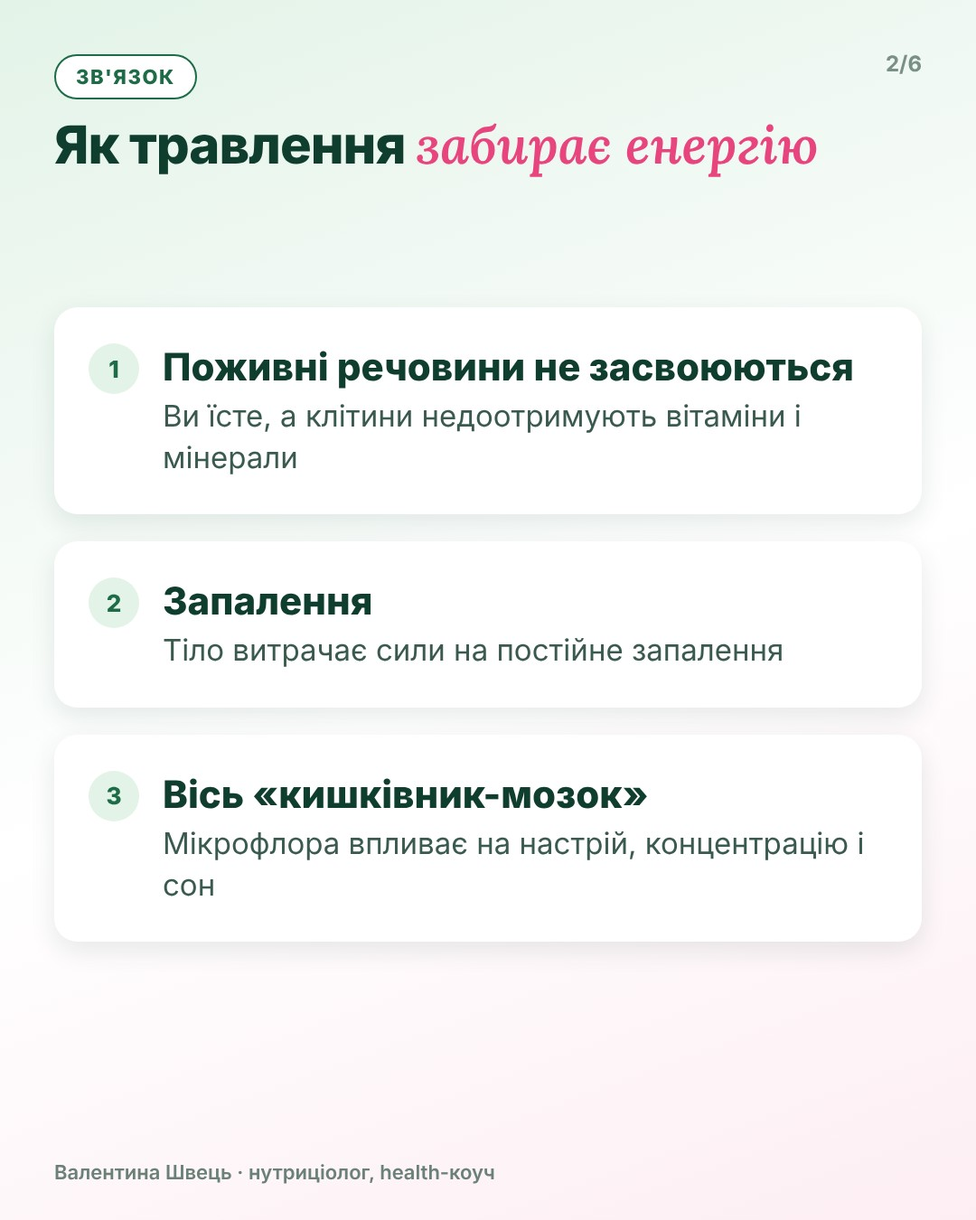
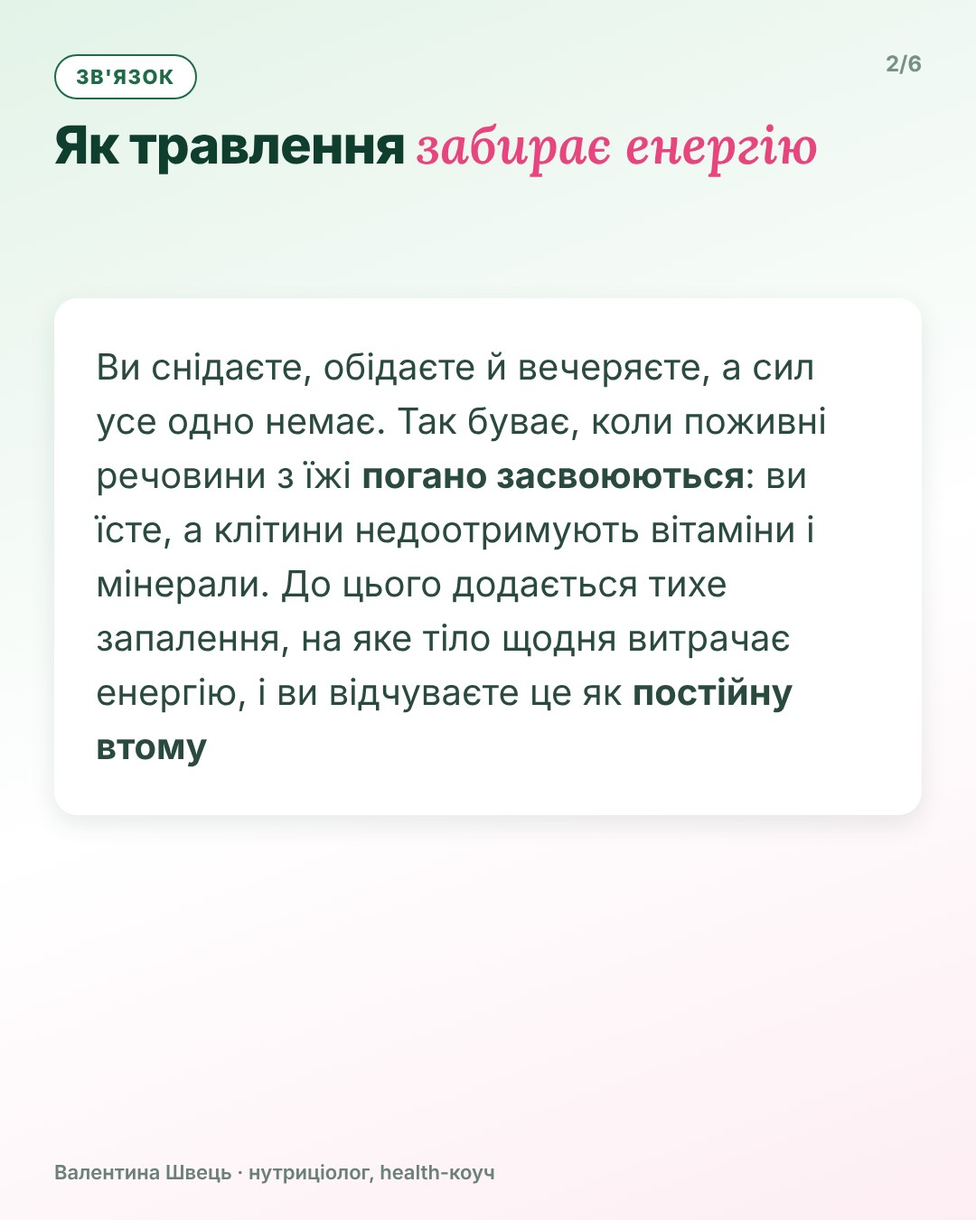
Валентина: k11 з повними слайдами і описом, нова примітка про консультацію, пояснення про налаштування реклами
Claude-Session: https://claude.ai/code/session_01P95tyL1PPecuZWfpcGvJVw

Changed region(s): [[0.0917, 0.28, 0.8861, 0.7467]]

diff --git a/instaposts.py b/instaposts.py
@@ -47,71 +47,74 @@ POSTS = [
      "Сироватки за пів зарплати, а шкіра та сама? Іноді причина висипань глибше: у кишківнику, жовчі та мікрофлорі 😉\n\nМожливо, ви зараз думаєте: «Я вже все перепробувала, і нічого не допомагає». Я розумію цю втому. Креми працюють з поверхнею, а коли налагоджується травлення, шкіра дуже часто відповідає першою.\n\n"
      "У каруселі чому так буває, з чого почати і відгук дівчини, в якої шкіра очистилась, щойно налагодили кишківник.\n\n"
      "Як харчування і мікрофлора впливають на шкіру, розбираємо на інтенсиві «Здоровий кишківник», старт 24 листопада.\n\n"
-     "Напишіть у коментарях КИШКІВНИК, і я надішлю вам усе про інтенсив ❤\n\nІнформація має ознайомчий характер і не замінює консультації спеціаліста.\n\nкишківник травлення мікробіом здоров'я харчування нутриціолог самопочуття"),
+     "Напишіть у коментарях КИШКІВНИК, і я надішлю вам усе про інтенсив ❤\n\nІнформація має ознайомчий характер і не замінює особистої консультації. Ваша ситуація може відрізнятися, тому на консультації ми розбираємо саме вас.\n\nкишківник травлення мікробіом здоров'я харчування нутриціолог самопочуття"),
     ("k7", "2026-11-19 10:15", "«Зранку живіт плаский, а ввечері як на 5 місяці» (слово ЖИВІТ)",
      "Зранку живіт плаский, а до вечора як на 5 місяці? Знайома картина 😉\n\nМожливо, ви думаєте: «Це в мене просто така фігура». Ваша фігура це живіт зранку. А те, що він росте до вечора, є сигналом травлення, і з ним можна працювати.\n\n"
      "Розбираю, чому здуття накопичується за день, як за тиждень знайти свій «продукт-провокатор» і що можна зробити вже сьогодні.\n\n"
-     "Напишіть у коментарях ЖИВІТ, і я надішлю вам тест з 10 питань ❤\n\nІнформація має ознайомчий характер і не замінює консультації спеціаліста.\n\nкишківник травлення мікробіом здоров'я харчування нутриціолог самопочуття"),
+     "Напишіть у коментарях ЖИВІТ, і я надішлю вам тест з 10 питань ❤\n\nІнформація має ознайомчий характер і не замінює особистої консультації. Ваша ситуація може відрізнятися, тому на консультації ми розбираємо саме вас.\n\nкишківник травлення мікробіом здоров'я харчування нутриціолог самопочуття"),
     ("k8", "2026-11-20 09:00", "«Знову булка ввечері? Можливо, апетитом керуєте не ви» (слово КИШКІВНИК → консультація)",
      "Ви сварите себе за слабку силу волі, а булка знову перемогла? Іноді тягу до солодкого підсилює мікрофлора, зокрема грибок Candida 😉\n\nЯкщо ви думаєте «у мене просто немає сили волі», будьте до себе м'якшою. Коли мікрофлора повертається в баланс, тяга слабшає сама, без постійних заборон.\n\n"
      "У каруселі як це працює і як м'яко зменшити тягу без заборон.\n\n"
-     "Як відновити мікрофлору саме у вас, розберемо особисто на консультації. До кінця листопада вона зі знижкою 50% ‼\n\nНапишіть у коментарях КИШКІВНИК, і я надішлю, як записатися ❤\n\nІнформація має ознайомчий характер і не замінює консультації спеціаліста.\n\nкишківник травлення мікробіом здоров'я харчування нутриціолог самопочуття"),
+     "Як відновити мікрофлору саме у вас, розберемо особисто на консультації. До кінця листопада вона зі знижкою 50% ‼\n\nНапишіть у коментарях КИШКІВНИК, і я надішлю, як записатися ❤\n\nІнформація має ознайомчий характер і не замінює особистої консультації. Ваша ситуація може відрізнятися, тому на консультації ми розбираємо саме вас.\n\nкишківник травлення мікробіом здоров'я харчування нутриціолог самопочуття"),
     ("k9", "2026-11-21 09:00", "Чек-лист «Коли ваш кишківник кричить про допомогу» (слово ЖИВІТ)",
      "10 неочевидних ознак, що кишківнику потрібна допомога. Збережіть і порахуйте, скільки з них про вас 😉\n\n«Та це в усіх так, просто вік» я чую дуже часто. Але втома, здуття чи висипання є підказками, і багато з них можна змінити, якщо почати з кишківника.\n\n"
-     "Набрали 3 і більше? Напишіть у коментарях ЖИВІТ, і я надішлю діагностику з 10 питань ❤\n\nІнформація має ознайомчий характер і не замінює консультації спеціаліста.\n\nкишківник травлення мікробіом здоров'я харчування нутриціолог самопочуття"),
+     "Набрали 3 і більше? Напишіть у коментарях ЖИВІТ, і я надішлю діагностику з 10 питань ❤\n\nІнформація має ознайомчий характер і не замінює особистої консультації. Ваша ситуація може відрізнятися, тому на консультації ми розбираємо саме вас.\n\nкишківник травлення мікробіом здоров'я харчування нутриціолог самопочуття"),
     ("k10", "2026-11-23 09:00", "«Пробіотики: чому це часто гроші на вітер» (слово КИШКІВНИК → консультація)",
      "Купуєте баночку пробіотиків за баночкою, а результату немає? Корисні бактерії просто не приживаються, якщо їм нема чим живитися 😉\n\n«Я вже пила пробіотики, і мені не допомогло». Саме для вас ця карусель: без ґрунту і їжі для бактерій навіть хороший пробіотик просто проходить транзитом.\n\n"
      "У каруселі правильний порядок: спершу ґрунт, потім насіння.\n\n"
      "Як обрати пре- і пробіотики саме для себе, підберемо на особистій консультації. До кінця листопада вона зі знижкою 50% ‼\n\n"
-     "Напишіть у коментарях КИШКІВНИК, і я надішлю, як записатися ❤\n\nІнформація має ознайомчий характер і не замінює консультації спеціаліста.\n\nкишківник травлення мікробіом здоров'я харчування нутриціолог самопочуття"),
+     "Напишіть у коментарях КИШКІВНИК, і я надішлю, як записатися ❤\n\nІнформація має ознайомчий характер і не замінює особистої консультації. Ваша ситуація може відрізнятися, тому на консультації ми розбираємо саме вас.\n\nкишківник травлення мікробіом здоров'я харчування нутриціолог самопочуття"),
     ("k11", "2026-11-24 09:00", "«Прокидаєтесь уже втомленою?» (слово ЖИВІТ)",
-     "Спите 8 годин, а прокидаєтесь уже втомленою, і в голові туман? Іноді енергію забирає травлення 😉\n\nМожливо, ви думаєте: «Я просто мало сплю, у мене робота і діти». Сон дуже важливий. Але якщо ви спите 7-8 годин і все одно прокидаєтесь втомленою, варто подивитись на травлення.\n\n"
-     "У каруселі зв'язок кишківника і втоми та перші кроки, щоб повернути сили.\n\n"
-     "Напишіть у коментарях ЖИВІТ, і я надішлю вам тест з 10 питань ❤\n\nІнформація має ознайомчий характер і не замінює консультації спеціаліста.\n\nкишківник травлення мікробіом здоров'я харчування нутриціолог самопочуття"),
+     "Спите 8 годин, а прокидаєтесь уже втомленою, і в голові туман? Мені про це пишуть дуже часто 😉\n\n"
+     "Багато хто думає: «Я просто мало сплю, у мене робота і діти». Сон справді важливий. Але якщо ви спите 7-8 годин, а сил усе одно немає, варто подивитись на травлення.\n\n"
+     "Коли кишківнику погано, поживні речовини з їжі засвоюються гірше. Ви їсте, а клітини недоотримують вітаміни і мінерали. До цього додається тихе запалення, на яке тіло щодня витрачає енергію. І все це ми відчуваємо як втому, сонливість після обіду і туман у голові.\n\n"
+     "У каруселі я зібрала сигнали, що справа саме в кишківнику, і три перші кроки, з яких можна почати вже цього тижня: сніданок з білком, вода протягом дня і сон до 23:00. Збережіть, щоб не загубити, і спробуйте хоча б тиждень.\n\n"
+     "А щоб зрозуміти, що забирає сили саме у вас, пройдіть мою діагностику. Це 10 простих питань, і в кінці ви побачите, на що звернути увагу в першу чергу.\n\n"
+     "Напишіть у коментарях ЖИВІТ, і я надішлю вам діагностику ❤\n\nІнформація має ознайомчий характер і не замінює особистої консультації. Ваша ситуація може відрізнятися, тому на консультації ми розбираємо саме вас.\n\nкишківник травлення мікробіом здоров'я харчування нутриціолог самопочуття"),
     ("k12", "2026-11-26 09:00", "«Їсте, як пташка, а вага не йде?» (слово ЖИВІТ)",
      "Їсте, як пташка, а вага стоїть на місці? Іноді схуднення блокує запалення в кишківнику і набряки 😉\n\nЯкщо зараз з'явилась думка «мені просто треба їсти ще менше», зупиніться. Голод часто ще сильніше гальмує обмін, а вазі допомагає баланс на тарілці.\n\n"
      "У каруселі чому так буває і тарілка балансу замість голодування.\n\n"
-     "Напишіть у коментарях ЖИВІТ, і я надішлю діагностику ❤\n\nІнформація має ознайомчий характер і не замінює консультації спеціаліста.\n\nкишківник травлення мікробіом здоров'я харчування нутриціолог самопочуття"),
+     "Напишіть у коментарях ЖИВІТ, і я надішлю діагностику ❤\n\nІнформація має ознайомчий характер і не замінює особистої консультації. Ваша ситуація може відрізнятися, тому на консультації ми розбираємо саме вас.\n\nкишківник травлення мікробіом здоров'я харчування нутриціолог самопочуття"),
     ("k13", "2026-12-03 09:00", "«Чистите зуби двічі на день, а запах лишається?» (слово ЖИВІТ)",
      "Делікатна тема, але дуже часта: неприємний запах з рота і наліт на язику можуть підказувати про роботу ШКТ ще до болю в животі 😉\n\nМожливо, ви думаєте: «Мені просто треба кращу пасту». Паста прибирає запах на годину-дві. Якщо він повертається щодня, причина часто глибше.\n\n"
      "Зазирніть зранку в дзеркало і звірте з карусельлю.\n\n"
-     "Напишіть у коментарях ЖИВІТ, і я надішлю тест ❤\n\nІнформація має ознайомчий характер і не замінює консультації спеціаліста.\n\nкишківник травлення мікробіом здоров'я харчування нутриціолог самопочуття"),
+     "Напишіть у коментарях ЖИВІТ, і я надішлю тест ❤\n\nІнформація має ознайомчий характер і не замінює особистої консультації. Ваша ситуація може відрізнятися, тому на консультації ми розбираємо саме вас.\n\nкишківник травлення мікробіом здоров'я харчування нутриціолог самопочуття"),
     ("k14", "2026-12-01 09:00", "«5 звичок, які тихо руйнують ваш мікробіом» (слово ЖИВІТ)",
      "Одноманітна їжа, стрес, мало сну, мало руху і ліки без призначення. Збережіть і чесно позначте, скільки з цих звичок про вас 😉\n\n«У мене немає часу на правильне харчування»? Міняти все одразу не треба. Оберіть одну звичку з каруселі і почніть з неї цього тижня.\n\n"
-     "Напишіть у коментарях ЖИВІТ, і я надішлю діагностику з 10 питань ❤\n\nІнформація має ознайомчий характер і не замінює консультації спеціаліста.\n\nкишківник травлення мікробіом здоров'я харчування нутриціолог самопочуття"),
+     "Напишіть у коментарях ЖИВІТ, і я надішлю діагностику з 10 питань ❤\n\nІнформація має ознайомчий характер і не замінює особистої консультації. Ваша ситуація може відрізнятися, тому на консультації ми розбираємо саме вас.\n\nкишківник травлення мікробіом здоров'я харчування нутриціолог самопочуття"),
     ("k15", "2026-12-05 09:00", "«Пили антибіотики роки тому? Мікрофлора досі пам'ятає» (слово ЖИВІТ)",
      "Антибіотики не розбирають, хто корисний. Мікрофлора після них може відновлюватися довго, а без підтримки деякі бактерії не повертаються 😉\n\nМожливо, ви думаєте: «Це було давно, вже все відновилось». Мікрофлора після антибіотиків може відновлюватися дуже довго, а деякі бактерії без підтримки не повертаються зовсім.\n\n"
      "У каруселі сигнали, що мікрофлора ще не відновилась, і як її підтримати.\n\n"
-     "Напишіть у коментарях ЖИВІТ ❤\n\nІнформація має ознайомчий характер і не замінює консультації спеціаліста.\n\nкишківник травлення мікробіом здоров'я харчування нутриціолог самопочуття"),
+     "Напишіть у коментарях ЖИВІТ ❤\n\nІнформація має ознайомчий характер і не замінює особистої консультації. Ваша ситуація може відрізнятися, тому на консультації ми розбираємо саме вас.\n\nкишківник травлення мікробіом здоров'я харчування нутриціолог самопочуття"),
     ("k16", "2026-11-29 09:00", "«Що ваш стілець говорить про здоров'я» (слово ЖИВІТ)",
      "Тема-табу, але дуже важлива. Брістольська шкала простими словами: від «твердо» до «занадто м'яко». Збережіть, щоб перевірити себе 😉\n\nЯкщо вам соромно про це говорити, ви не одна. Саме тому всі мовчать, хоча це одна з найпростіших підказок, яку тіло дає вам щодня.\n\n"
-     "Не тип 3-4? Напишіть у коментарях ЖИВІТ, і я надішлю діагностику ❤\n\nІнформація має ознайомчий характер і не замінює консультації спеціаліста.\n\nкишківник травлення мікробіом здоров'я харчування нутриціолог самопочуття"),
+     "Не тип 3-4? Напишіть у коментарях ЖИВІТ, і я надішлю діагностику ❤\n\nІнформація має ознайомчий характер і не замінює особистої консультації. Ваша ситуація може відрізнятися, тому на консультації ми розбираємо саме вас.\n\nкишківник травлення мікробіом здоров'я харчування нутриціолог самопочуття"),
     # 19.11: мікс до 1.12 (Тетяна «збирай»): консультація −50%, рецепт, гумор, історія клієнтки, останній день
     ("k17", "2026-11-22 09:00", "«Що відбувається на моїй консультації» (нотатки, слово КИШКІВНИК → консультація)",
      "Мене часто питають, що саме відбувається на консультації. Розповідаю чесно і без складних слів 😉\n\n"
      "Якщо ви думаєте «спершу спробую розібратись сама», я вас розумію. Багато можна зробити самостійно. Але коли симптоми тягнуться місяцями, особистий розбір економить час і гроші на те, що вам не підходить.\n\n"
      "У каруселі, кому підійде консультація і що ми розберемо разом. До кінця листопада вона зі знижкою 50% ‼\n\n"
-     "Напишіть у коментарях КИШКІВНИК, і я надішлю, як записатися ❤\n\nІнформація має ознайомчий характер і не замінює консультації спеціаліста.\n\nкишківник травлення мікробіом здоров'я харчування нутриціолог самопочуття"),
+     "Напишіть у коментарях КИШКІВНИК, і я надішлю, як записатися ❤\n\nІнформація має ознайомчий характер і не замінює особистої консультації. Ваша ситуація може відрізнятися, тому на консультації ми розбираємо саме вас.\n\nкишківник травлення мікробіом здоров'я харчування нутриціолог самопочуття"),
     ("k18", "2026-11-25 09:00", "Рецепт «Сніданок, який любить ваш кишківник» (слово ЖИВІТ)",
      "Сніданок, який готується з вечора за 3 хвилини, а зранку вас уже чекає 😉 Збережіть, щоб не загубити.\n\n"
      "«У мене зранку немає часу на сніданок» я чую дуже часто. Саме тому тут усе робиться ввечері, а зранку ви просто відкриваєте холодильник.\n\n"
      "Овес і льон дають клітковину для ваших корисних бактерій, кисломолочне додає живі культури, а ягоди поліфеноли. Якщо молочне вам не підходить, беріть рослинний йогурт.\n\n"
-     "Хочете зрозуміти, що потрібно саме вашому травленню? Напишіть у коментарях ЖИВІТ, і я надішлю тест з 10 питань ❤\n\nІнформація має ознайомчий характер і не замінює консультації спеціаліста.\n\nкишківник травлення мікробіом здоров'я харчування нутриціолог самопочуття"),
+     "Хочете зрозуміти, що потрібно саме вашому травленню? Напишіть у коментарях ЖИВІТ, і я надішлю тест з 10 питань ❤\n\nІнформація має ознайомчий характер і не замінює особистої консультації. Ваша ситуація може відрізнятися, тому на консультації ми розбираємо саме вас.\n\nкишківник травлення мікробіом здоров'я харчування нутриціолог самопочуття"),
     ("k19", "2026-11-27 09:00", "Гумор «Найвигідніша покупка цієї п'ятниці» (Чорна п'ятниця, слово КИШКІВНИК → консультація)",
      "Чорна п'ятниця, кошик повний, а живіт після вечері знову як повітряна кулька 🙈 Впізнаєте себе в цій переписці?\n\n"
      "Кофтинку ви, можливо, забудете вже за місяць. А спокійний живіт і енергія зранку залишаються з вами надовго.\n\n"
      "«Консультація це дорого, краще потім». Порахуйте, скільки вже пішло на баночки і засоби навмання. До кінця листопада консультація зі знижкою 50% ‼\n\n"
-     "Напишіть у коментарях КИШКІВНИК, і я надішлю, як записатися ❤\n\nІнформація має ознайомчий характер і не замінює консультації спеціаліста.\n\nкишківник травлення мікробіом здоров'я харчування нутриціолог самопочуття"),
+     "Напишіть у коментарях КИШКІВНИК, і я надішлю, як записатися ❤\n\nІнформація має ознайомчий характер і не замінює особистої консультації. Ваша ситуація може відрізнятися, тому на консультації ми розбираємо саме вас.\n\nкишківник травлення мікробіом здоров'я харчування нутриціолог самопочуття"),
     ("k20", "2026-11-28 09:00", "Історія клієнтки «Лікувала щитовидку, а почати треба було з кишківника» (слово КИШКІВНИК → консультація)",
      "Ця переписка для мене одна з найдорожчих ❤ Клієнтка написала: «Аж не віриться, що мій кишківник настільки вплинув на щитовидку. Раніше я взагалі не знала про цей взаємозв'язок».\n\n"
      "Ми почали з кишківника, і антитіла в її аналізах почали падати. Справжній скрін у каруселі.\n\n"
      "Якщо ви думаєте «у мене щитовидка, до чого тут кишківник?», вона думала так само. Результати в кожного свої, тому план я завжди складаю особисто.\n\n"
-     "Розберемо ваші аналізи на консультації. До кінця листопада зі знижкою 50% ‼ Напишіть у коментарях КИШКІВНИК, і я надішлю, як записатися ❤\n\nІнформація має ознайомчий характер і не замінює консультації спеціаліста.\n\nкишківник травлення мікробіом здоров'я харчування нутриціолог самопочуття"),
+     "Розберемо ваші аналізи на консультації. До кінця листопада зі знижкою 50% ‼ Напишіть у коментарях КИШКІВНИК, і я надішлю, як записатися ❤\n\nІнформація має ознайомчий характер і не замінює особистої консультації. Ваша ситуація може відрізнятися, тому на консультації ми розбираємо саме вас.\n\nкишківник травлення мікробіом здоров'я харчування нутриціолог самопочуття"),
     ("k21", "2026-11-30 09:00", "«Сьогодні останній день знижки 50%» (слово КИШКІВНИК → консультація)",
      "Сьогодні останній день, коли мою консультацію можна взяти зі знижкою 50% ‼ Завтра ціна буде повна.\n\n"
      "«Почну з понеділка сама», так кажемо ми всі. Але понеділок може настати і без знижки. Якщо ви давно відкладаєте турботу про себе, сьогодні вдалий день почати.\n\n"
      "На консультації розберемо ваші симптоми, аналізи і харчування, і ви отримаєте чіткий план. Після оплати я сама напишу вам, щоб узгодити час.\n\n"
-     "Напишіть у коментарях КИШКІВНИК, і я надішлю, як записатися ❤\n\nІнформація має ознайомчий характер і не замінює консультації спеціаліста.\n\nкишківник травлення мікробіом здоров'я харчування нутриціолог самопочуття"),
+     "Напишіть у коментарях КИШКІВНИК, і я надішлю, як записатися ❤\n\nІнформація має ознайомчий характер і не замінює особистої консультації. Ваша ситуація може відрізнятися, тому на консультації ми розбираємо саме вас.\n\nкишківник травлення мікробіом здоров'я харчування нутриціолог самопочуття"),
 ]
 
 INTRO = ("📸 <b>Готові каруселі для Instagram</b>\n\n"

diff --git a/tools/posts2/build.py b/tools/posts2/build.py
@@ -61,6 +61,18 @@ def items(n, total, tag, title, rows, img=None, pos="center"):
 <div class="foot">{NAME}</div>""")
 
 
+def text(n, total, tag, title, body, img=None, pos="center"):
+    """23.11 (Тетяна): повні слайди 40-60 слів замість коротких карток."""
+    w = "right:60px" if not img else "right:420px"
+    fs = 36 if img else 40
+    ph = f'<div class="ph" style="right:60px;top:330px;width:330px;height:760px"><img src="{img}" style="object-position:{pos}"></div>' if img else ""
+    return doc(f"""<div class="num">{n}/{total}</div>
+<div style="position:absolute;left:60px;top:60px"><span class="tag">{tag}</span></div>
+<h2 style="position:absolute;left:60px;right:60px;top:130px">{title}</h2>
+<div class="card" style="position:absolute;left:60px;{w};top:330px;display:block;padding:46px 46px"><div class="cd" style="font-size:{fs}px;line-height:1.5;color:#2b4a3e">{body}</div></div>{ph}
+<div class="foot">{NAME}</div>""")
+
+
 def review(src):
     return doc(f'<img src="{src}" style="position:absolute;inset:0;width:1080px;height:1350px;object-fit:cover">')
 
@@ -75,7 +87,7 @@ def cta(n, total, tag, title, text, word, after, img):
 <div style="position:absolute;left:60px;top:1010px;font-size:30px;color:#e3f3e8">{after} ❤</div>
 {'<img src="val1_cut.png" style="position:absolute;right:-30px;bottom:0;height:780px">' if img == "val1.jpg" else '<div class="ph" style="right:50px;top:330px;width:420px;height:620px"><img src="val2.jpg"></div>'}
 
-<div class="disc">Інформація має ознайомчий характер і не замінює консультації спеціаліста</div>""", "cta")
+<div class="disc">Інформація має ознайомчий характер і не замінює особистої консультації</div>""", "cta")
 
 
 T_INT = "і я надішлю вам усе про інтенсив"
@@ -171,21 +183,15 @@ POSTS["k10"] = [
     cta(5, 5, "КОНСУЛЬТАЦІЯ −50%", "Як обрати пре- і пробіотики <em>саме для себе</em>",
         "Підберемо під вашу ситуацію на особистій консультації. До кінця листопада зі знижкою 50%", "КИШКІВНИК", T_CONS, "val1.jpg"),
 ]
-POSTS["k11"] = [
+POSTS["k11"] = [  # 23.11: повні тексти (слово Тетяни)
     cover("ВТОМА", "Прокидаєтесь <em>уже втомленою?</em>",
           "Хронічна втома і туман у голові можуть починатися з травлення", "tired.jpg"),
-    items(2, 5, "ЗВ'ЯЗОК", "Як травлення <em>забирає енергію</em>", [
-        (1, "Поживні речовини не засвоюються", "Ви їсте, а клітини недоотримують вітаміни і мінерали"),
-        (2, "Запалення", "Тіло витрачає сили на постійне запалення"),
-        (3, "Вісь «кишківник-мозок»", "Мікрофлора впливає на настрій, концентрацію і сон")]),
-    items(3, 5, "ПЕРЕВІРТЕ СЕБЕ", "Сигнали, що справа <em>в кишківнику</em>", [
-        (1, "Втома після їжі", "Після обіду хочеться спати"),
-        (2, "Здуття і важкість", "Особливо до вечора"),
-        (3, "Туман у голові", "Важко зосередитись навіть після кави")], "lying.jpg"),
-    items(4, 5, "ПЕРШІ КРОКИ", "Повернути енергію <em>м'яко</em>", [
-        (1, "Сніданок з білком", "Замість кави на порожній шлунок"),
-        (2, "Вода протягом дня", "Часто втома це просто зневоднення"),
-        (3, "Сон до 23:00", "Кишкові бактерії теж живуть за ритмом")]),
+    text(2, 5, "ЗВ'ЯЗОК", "Як травлення <em>забирає енергію</em>",
+         "Ви снідаєте, обідаєте й вечеряєте, а сил усе одно немає. Так буває, коли поживні речовини з їжі <b>погано засвоюються</b>: ви їсте, а клітини недоотримують вітаміни і мінерали. До цього додається тихе запалення, на яке тіло щодня витрачає енергію, і ви відчуваєте це як <b>постійну втому</b>"),
+    text(3, 5, "ПЕРЕВІРТЕ СЕБЕ", "Сигнали, що справа <em>в кишківнику</em>",
+         "Після обіду хочеться лягти, хоча ви не переїдали. До вечора з'являються <b>здуття і важкість</b>. А зранку в голові туман, і навіть після кави важко зосередитись. Мікрофлора впливає і на настрій, і на сон. Якщо ви впізнали себе хоча б в одному, <b>варто подивитись на травлення</b>", "lying.jpg"),
+    text(4, 5, "ПЕРШІ КРОКИ", "Повернути енергію <em>м'яко</em>",
+         "Почніть зі <b>сніданку з білком</b> замість кави на порожній шлунок: яйця, сир чи каша з горіхами. Пийте <b>воду протягом дня</b>, бо часто втома це просто зневоднення. І лягайте <b>до 23:00</b>, кишкові бактерії теж живуть за ритмом. Спробуйте ці три кроки цього тижня і поспостерігайте за собою"),
     cta(5, 5, "ДІАГНОСТИКА", "Дізнайтесь, що забирає <em>ваші сили</em>",
         "Моя діагностика з 10 питань покаже, на що звернути увагу саме вам", "ЖИВІТ", T_TEST, "val2.jpg"),
 ]

diff --git a/vadsetup.py b/vadsetup.py
@@ -18,7 +18,7 @@ MSGS = [
     "<b>скільки людей прийшло з реклами в агента</b> і хто з них записався чи оплатив.\n\n"
     "Щоб це запрацювало, ваш рекламний кабінет треба <b>один раз підключити</b> до агента. Це роблять з комп'ютера, "
     "приблизно 20-30 хвилин. Нижче всі кроки по черзі 😉\n\n"
-    "<i>Якщо щось не виходить, робіть скрін і надсилайте Тетяні ❤</i>",
+    "<i>Самій усе це робити не потрібно: кроки налаштування рекламного кабінету Тетяна пройде покроково, сама або разом з вами ❤</i>",
 
     "<b>Крок 1. Перевірте, що все в одному бізнесі</b>\n\n"
     "Відкрийте <b>business.facebook.com</b> → «Налаштування» (шестерня).\n\n"
@@ -85,6 +85,25 @@ MSGS = [
     "Кнопка в рекламі веде людей у вашого агента. Про кожну людину з реклами агент одразу пише вам, "
     "а /reklama_stat показує покази, переходи, витрати і хто з цих людей оплатив. Там же кнопки: зупинити, додати бюджет, продовжити 😉",
 ]
+
+
+NOTE = ("❤ <b>Валентино, коротке пояснення до повідомлень про рекламу</b>\n\n"
+        "Інструкція, яку агент щойно надіслав, стосується <b>тільки налаштування рекламного кабінету</b>. "
+        "Самій проходити ці кроки <b>не потрібно</b>: Тетяна зробить їх покроково, сама або <i>разом з вами</i>, "
+        "і скаже, коли все буде готово до першої реклами.\n\n"
+        "Поки просто збережіть ці повідомлення, щоб вони були під рукою 😉")
+
+
+async def note_job(ctx):
+    """23.11 23:05 (Тетяна): пояснення, що кабінет налаштовує Тетяна (сама або разом), flag vads_note."""
+    if db.flag_get("vads_note") == "1":
+        return
+    db.flag_set("vads_note", "1")
+    for a in C.ADMIN_IDS:
+        try:
+            await ctx.bot.send_message(a, NOTE, parse_mode="HTML")
+        except Exception as e:
+            log.warning("vads note %s: %s", a, e)
 
 
 async def send(bot, chat):

diff --git a/changelog.py b/changelog.py
@@ -10,11 +10,10 @@ import db
 
 log = logging.getLogger("changelog")
 
-VERSION = "2026-11-23-ads"
+VERSION = "2026-11-23-k11"
 NOTES = [
-    "Реклама в Instagram через агента: запуск з вашого допису чи рілсу за посиланням (/reklama_post), цифри і кнопки керування (/reklama_stat), перевірка підключення (/reklama_test)",
-    "Агент окремо пише вам про кожну людину, яка прийшла з реклами, і позначає, хто оплатив",
-    "Покрокова інструкція підключення надіслана окремими повідомленнями, ще раз: /reklama_pidkl",
+    "Каруселі: завтрашня «Прокидаєтесь уже втомленою?» тепер з повними слайдами і довшим описом",
+    "В описах каруселей нова примітка: «не замінює особистої консультації, на консультації ми розбираємо саме вас»",
 ]
 
 

diff --git a/bot.py b/bot.py
@@ -647,6 +647,7 @@ def main():
     app.add_error_handler(on_error)
     app.job_queue.run_repeating(paid_job, interval=60, first=45)
     app.job_queue.run_once(__import__("vadsetup").job, when=150)  # 23.11: як підключити рекламу (flag vads_2311)
+    app.job_queue.run_once(__import__("vadsetup").note_job, when=200)  # 23.11: кабінет налаштовує Тетяна (flag vads_note)
     app.job_queue.run_once(jan.setup_job, when=70)  # 19.11: питання Валентині (ціна консультації, старт, доплата)
     app.job_queue.run_once(jan.more_job, when=90)  # 19.11: питання про рецепт для каруселі 25.11
     app.job_queue.run_once(jan.announce_preview_job, when=80)  # 19.11: прев'ю розсилки «січень + консультація»

diff --git a/CLAUDE.md b/CLAUDE.md
@@ -83,3 +83,7 @@
 - vadsetup.py: адмінам один раз (flag vads_2311) 8 кроків підключення (бізнес, застосунок у Live, системний користувач, маркер, Railway Variables META_ADS_TOKEN / META_AD_ACCOUNT / META_PAGE_ID, перевірка, перший запуск 3 дні × $5); /reklama_pidkl ще раз.
 - Політика конфіденційності: docs/privacy.html і копія tafijcuktetana12-coder.github.io/agents/kyshkivnyk/privacy.html (її посилання в інструкції).
 - Наживо не перевірено: чекає маркер у Railway і ✅ у /reklama_test.
+- 23.11 23:05: vadsetup.note_job (flag vads_note): Валентині пояснення, що кабінет налаштовує Тетяна (сама або разом).
+
+## Повні тексти каруселей (23.11, Тетяна «+»)
+- build.py text(): слайди 40-60 слів замість карток. k11 переписано (слайди + опис 195 слів). Примітка в описах і на CTA: «не замінює особистої консультації…» (Валентина сама спеціаліст). Далі k12-k21 так само, після погодження k11.
